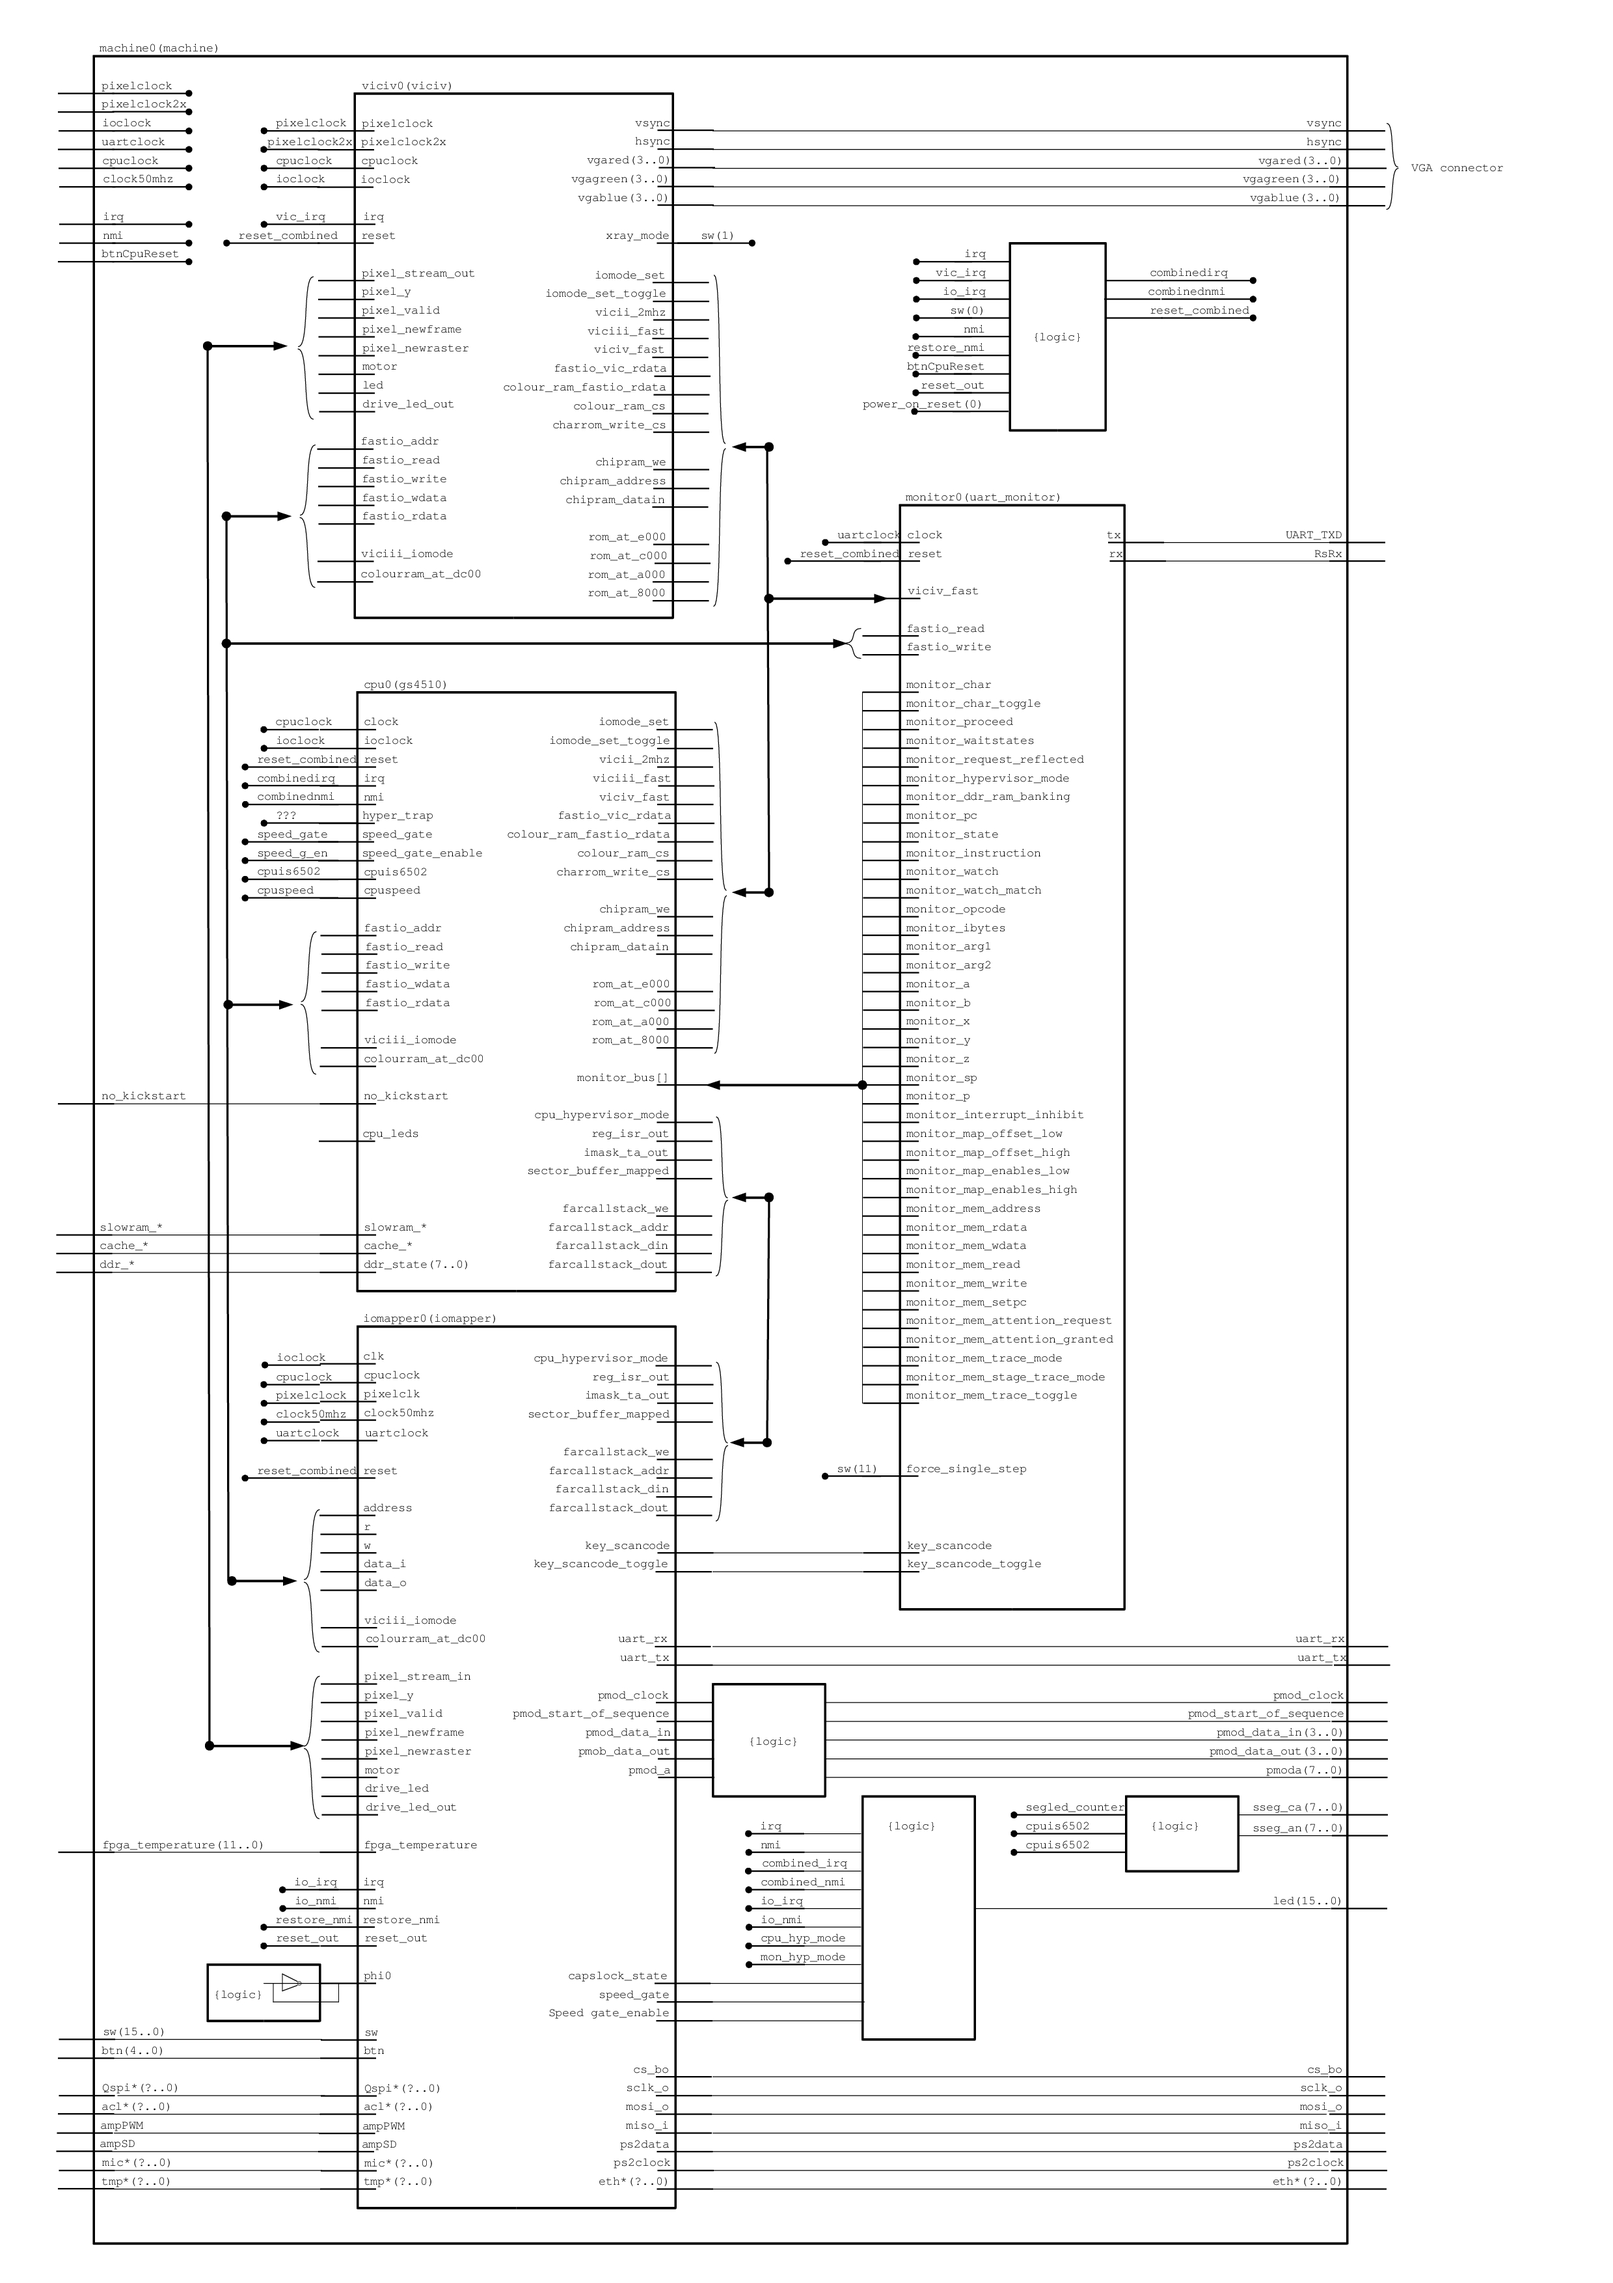
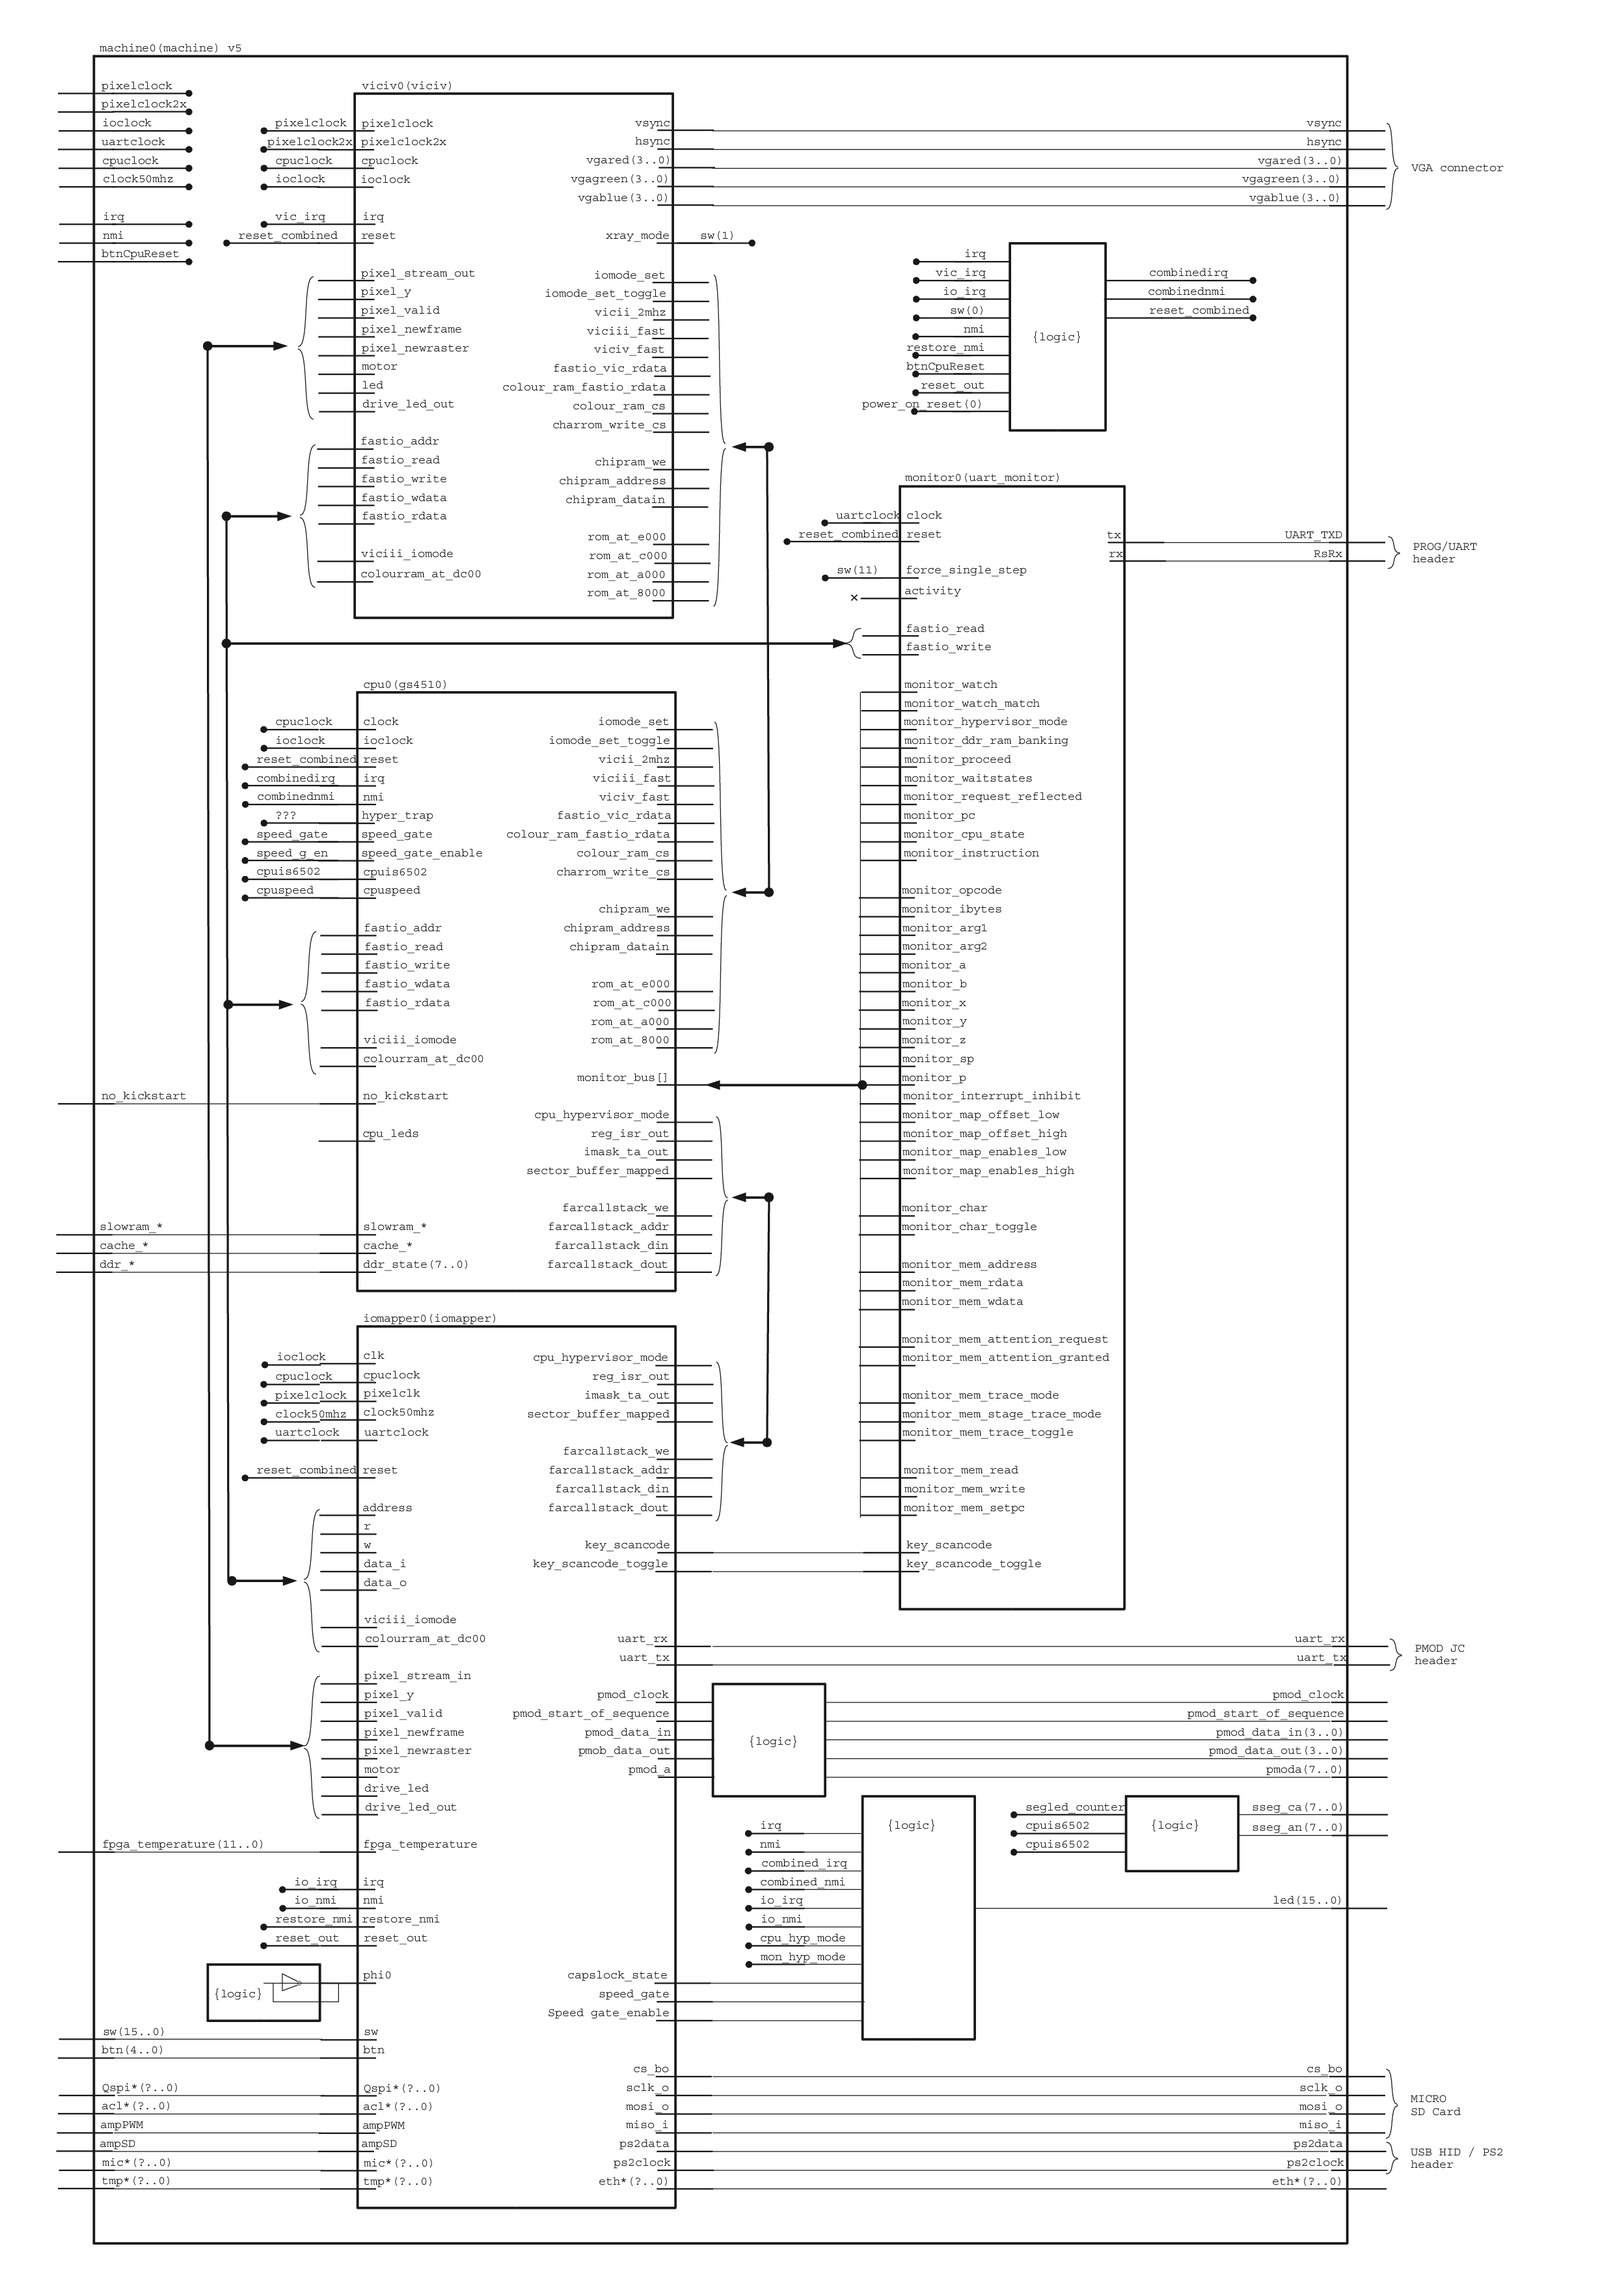
added first version of serial monitor doco, and updated doco for machine image, and added documentation and formatting to uart_monitor.vhdl

diff --git a/doc/structural.md b/doc/structural.md
@@ -19,6 +19,7 @@ The following components are currently documented (at least in part):
 * [container/machine/iomapper/ethernet](#ethernet)
 * [container/machine/iomapper/sdcardio](#sdcardio)
 * [container/machine/iomapper/farcallstack](#farcallstack)
+* [container/machine/monitor](#monitor)
 
 ## Introduction
 
@@ -52,7 +53,7 @@ Sub-components include:
 * "viciv" (to be do)  
 * "gs4510" (to be do)  
 * "[iomapper](#iomapper)"  
-* "uart_monitor" (to be do)  
+* "[monitor](#monitor)"
 
 As shown in the diagram below, the "machine" component holds the four sub-components listed above.  
 In addition, the "machine" component includes:
@@ -148,6 +149,20 @@ This component seems to be a dualport RAM, and is just implemented using process
 The size is "64-bit by 512".  
 I think this component samples the CPU InstructionRegister, ProgramCounter, A,X,Y-registers, ALU-state, etc, and stores these in a circular-buffer. This data can be accessed from the buffer when the Hypervisor-mode is used, or by using the UART-debugger.  
 This component is not fully understood.  
+
+
+## monitor
+This components includes the following functionality:  
+* provides a debug interface between FPGA and host-PC
+* refer to the [monitor](./monitor.md) page for details on how to use this component
+
+Sub-components include:  
+* "uart_rx" (simple serial UART that RX'es bytes)  
+* "uart_tx" (simple serial UART that TX'es bytes)  
+* "historyram" (a RAM used for storing the CPU states)  
+
+[![monitor](./images/monitor-small.jpg)](./images/monitor.jpg)  
+Click the image above for a hi-res JPG, else the [PDF link](./images/monitor.pdf).
 
 
 The End.
